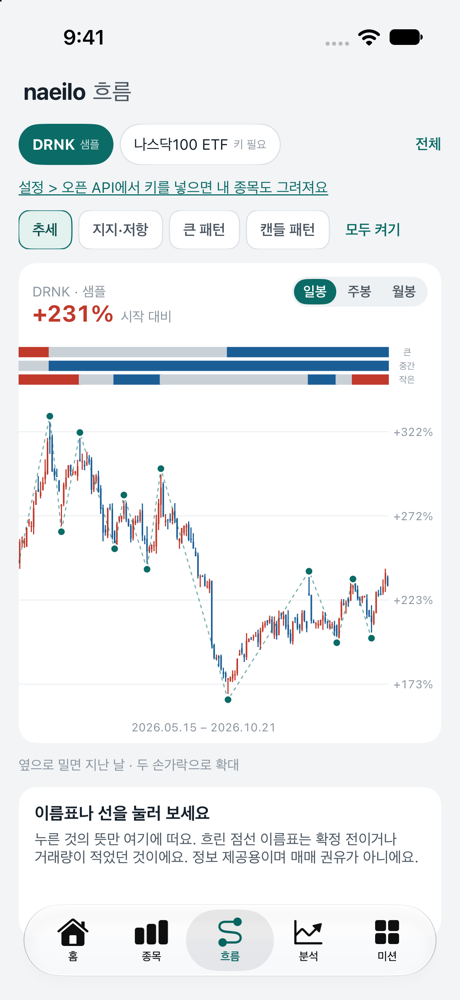
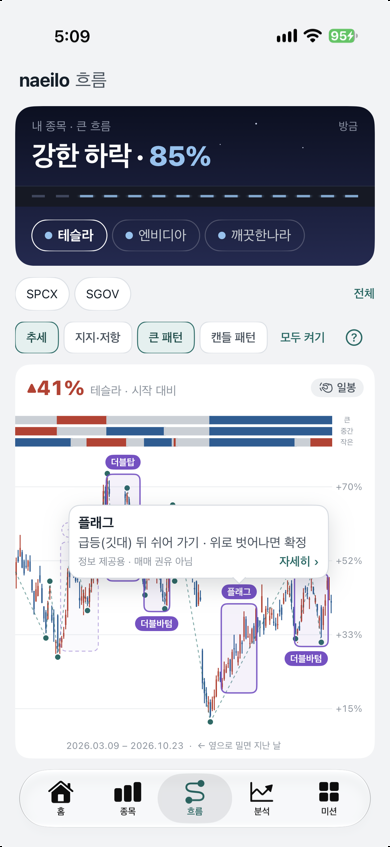
소개 페이지: 스크린샷을 홈·종목·흐름·분석 4장으로 (설정 빼고, 칸 폭 218px)
Claude-Session: https://claude.ai/code/session_01Qiv9He1TXkPcaZsQfLfxrY

diff --git a/index.html b/index.html
@@ -97,9 +97,10 @@
     <h2>앱을 열면, 인물이 먼저 말을 걸어요</h2>
     <p class="muted">세리·시오·선배·이르·수아가 오늘 숫자를 전해요 · 매매 추천 아님</p>
     <div class="rail">
-      <figure><div class="phone"><picture><source srcset="img/app-home-dark.png?v=2" media="(prefers-color-scheme: dark)"><img src="img/app-home.png?v=5" alt="naeilo 앱 홈 화면. 평가액 226만, 목표까지 49%와 세리의 한마디" loading="lazy"></picture></div><figcaption>홈: 오늘 숫자와 한마디</figcaption></figure>
-      <figure><div class="phone"><picture><source srcset="img/app-flow-dark.png?v=1" media="(prefers-color-scheme: dark)"><img src="img/app-flow.png?v=1" alt="흐름 화면. DRNK 일봉 그래프 위에 추세 이름표와 크고 작은 흐름 띠" loading="lazy"></picture></div><figcaption>흐름: 추세·패턴을 그래프로</figcaption></figure>
-      <figure><div class="phone"><picture><source srcset="img/app-settings-dark.png?v=2" media="(prefers-color-scheme: dark)"><img src="img/app-settings.png?v=4" alt="설정 화면. 내 오픈 API 키 연결, 내 목표, 알림과 위젯" loading="lazy"></picture></div><figcaption>설정: 내 오픈 API 키는 이 폰에만</figcaption></figure>
+      <figure><div class="phone"><picture><img src="img/app-home.png?v=6" alt="naeilo 앱 홈 화면. 평가액 4억 9,782만, 오늘 하락 이유를 전하는 인물의 한마디와 많이 움직인 종목" loading="lazy"></picture></div><figcaption>홈: 오늘 숫자와 한마디</figcaption></figure>
+      <figure><div class="phone"><picture><img src="img/app-stocks.png?v=1" alt="종목 화면. 오늘 −149만 원, 1개월 평가액 그래프와 테슬라·엔비디아·SGOV·SPCX 목록" loading="lazy"></picture></div><figcaption>종목: 내 종목을 한눈에</figcaption></figure>
+      <figure><div class="phone"><picture><img src="img/app-flow.png?v=2" alt="흐름 화면. 테슬라 일봉 그래프 위에 더블탑·플래그·더블바텀 패턴 이름표와 크고 작은 흐름 띠" loading="lazy"></picture></div><figcaption>흐름: 추세·패턴을 그래프로</figcaption></figure>
+      <figure><div class="phone"><picture><img src="img/app-analysis.png?v=1" alt="분석 화면. 10억 목표 가능성 33%, 끌어내리는 힘과 끌어올리는 힘, 언제 흔들릴지 보여 주는 그래프" loading="lazy"></picture></div><figcaption>분석: 목표까지 가능성과 이유</figcaption></figure>
     </div>
     <p class="note">샘플 금액 · 가상 종목 DRNK·QQQ</p>
   </section>

diff --git a/entry.css b/entry.css
@@ -101,7 +101,7 @@ img.px, .bye img { image-rendering: pixelated; }
 /* ---------------------------------------------------------------- 2. 앱 안 화면 */
 .inside > p { max-width: 560px; margin: 0 0 20px; }
 .rail { display: flex; gap: 18px; overflow-x: auto; scroll-snap-type: x mandatory; -webkit-overflow-scrolling: touch; padding-bottom: 8px; }
-.rail figure { margin: 0; flex: 0 0 min(62vw, 240px); scroll-snap-align: center; text-align: center; }
+.rail figure { margin: 0; flex: 0 0 min(62vw, 218px); scroll-snap-align: center; text-align: center; }
 .phone { aspect-ratio: 9 / 19.5; border-radius: 30px; padding: 7px; background: #05090d; box-shadow: 0 0 0 1px var(--line), 0 10px 30px rgba(0, 0, 0, 0.25); overflow: hidden; position: relative; }
 /* 사파리는 aspect-ratio 상자 안의 height: 100% 를 못 받아 그림이 틀 밖으로 나가니, 틀 안쪽에 딱 붙인다 */
 .phone picture { position: absolute; inset: 7px; border-radius: 24px; overflow: hidden; }
